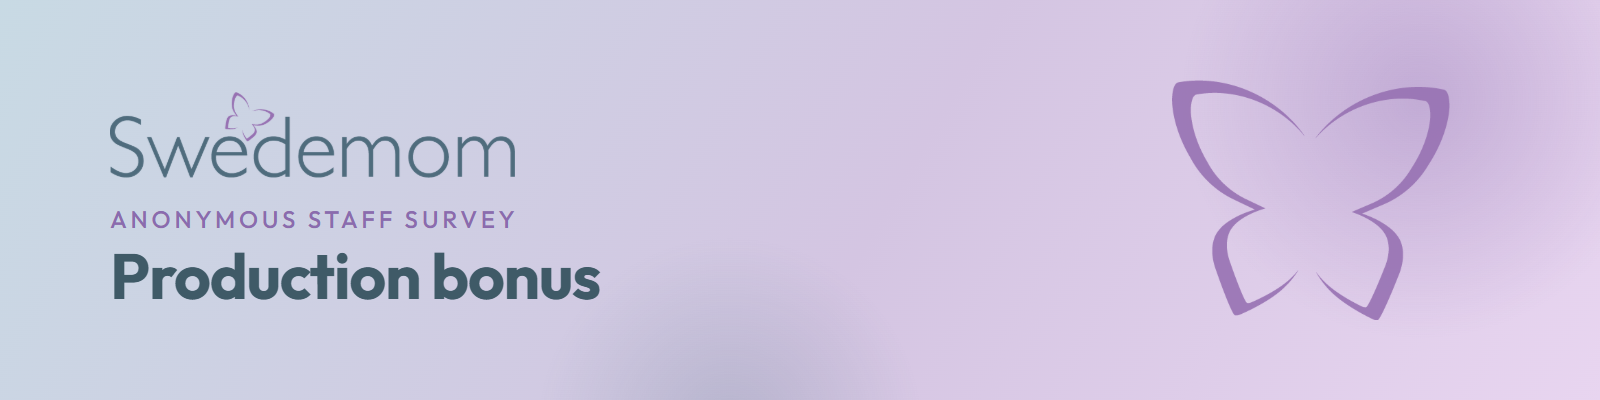
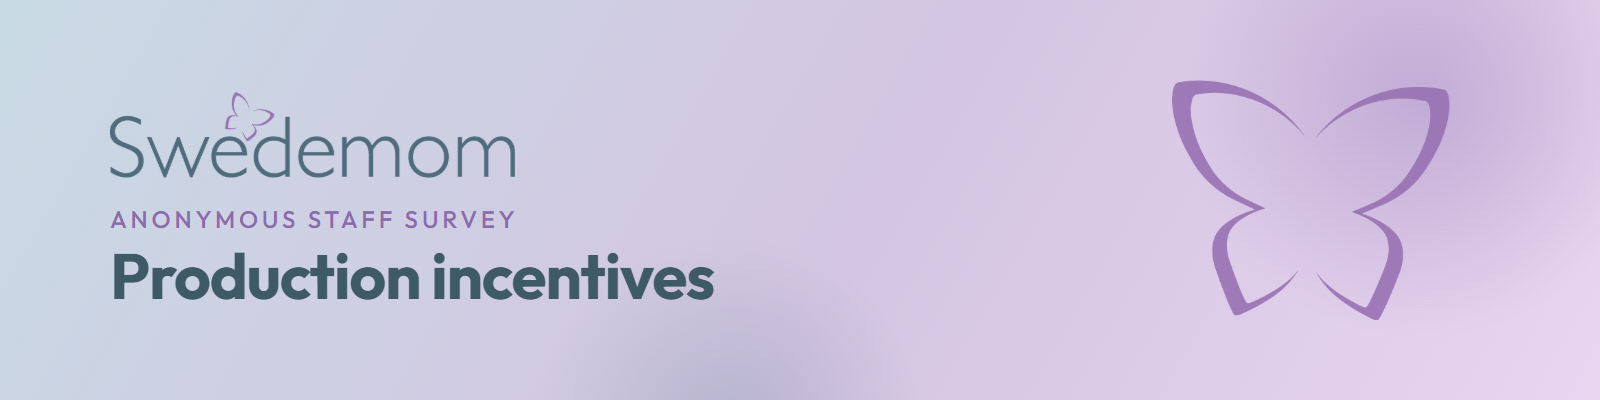
Form header reads Production incentives

Changed region(s): [[0.25, 0.63, 0.4688, 0.75]]

diff --git a/docs/swedemom/production-incentives/form-header.html b/docs/swedemom/production-incentives/form-header.html
@@ -13,6 +13,6 @@ h1{font-size:64px;font-weight:700;letter-spacing:-.02em;color:#3F5A67;margin:0;l
 img.bf{position:absolute;right:150px;top:80px;height:240px;opacity:.9}
 </style></head><body>
 <div class="glow g1"></div><div class="glow g2"></div>
-<div class="wrap"><img class="logo" src="assets/logo.png" alt=""><p class="k">Anonymous staff survey</p><h1>Production bonus</h1></div>
+<div class="wrap"><img class="logo" src="assets/logo.png" alt=""><p class="k">Anonymous staff survey</p><h1>Production incentives</h1></div>
 <img class="bf" src="assets/butterfly.png" alt="">
 </body></html>
